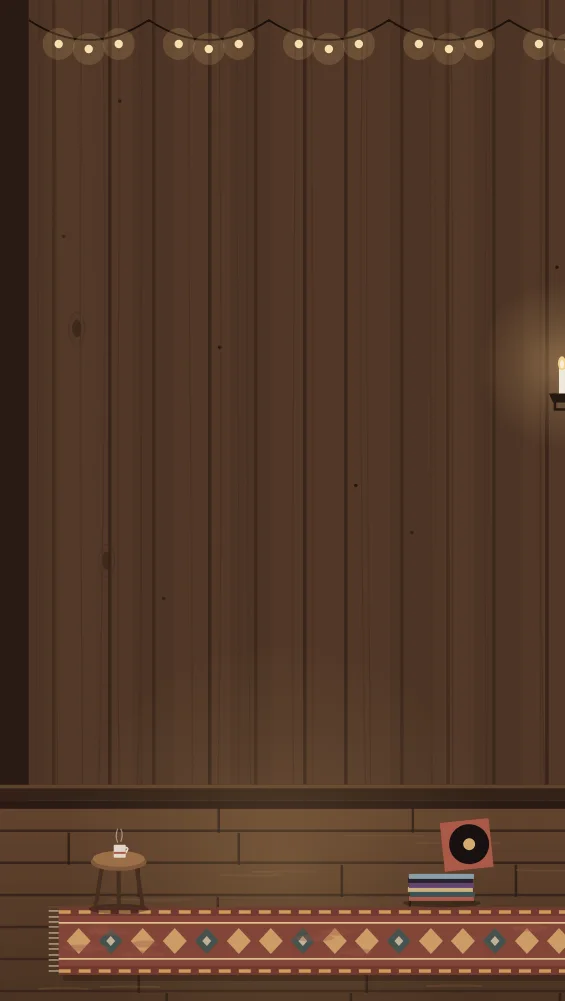
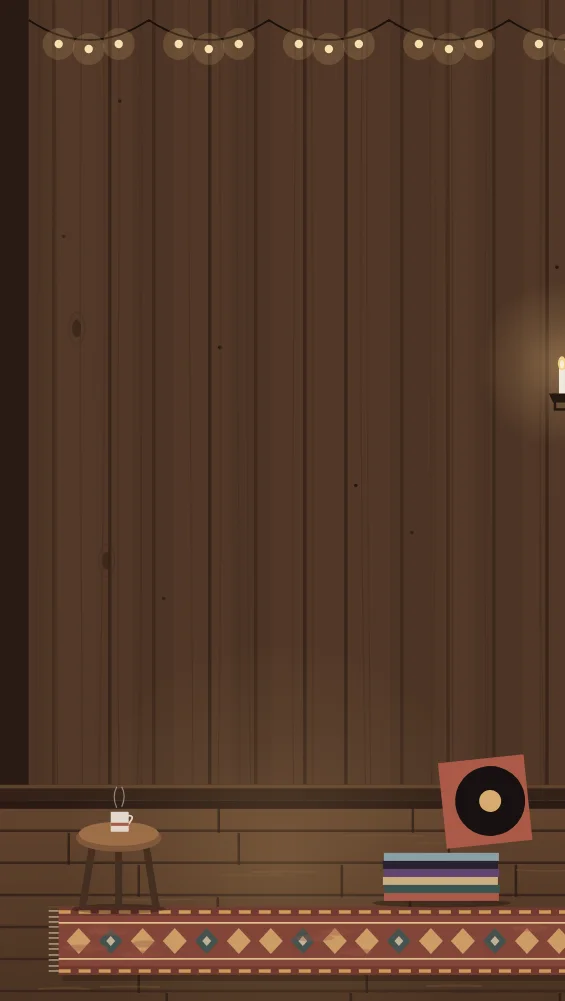
Size the cabin stool, mug and records to the furniture; seat the snowboard deeper
Claude-Session: https://claude.ai/code/session_01EHtmNVvLo6L45VFzzqfGpi

Changed region(s): [[0.6619, 0.7433, 0.9628, 0.9291], [0.1204, 0.8052, 0.3009, 0.9291]]

diff --git a/assets/js/nature.js b/assets/js/nature.js
@@ -2119,8 +2119,8 @@ export function sceneAttic(W, stops, { birdGap = -1 } = {}) {
     // 手前の鉢植えがすき間の真ん中に来るので、床の小物は左右に寄せる
     const off = Math.max(12, W * .11), FK = W < 80 ? 1.25 : 2.1; // 家具の大きさ（絵と比べて部屋が大きすぎて見えないように）
     // 1 つ目のすき間は左半分が小屋の外（雪の中）なので、ギターは置かない。スツールとマグは小屋の中にあるときだけ
-    if (k === 1) { if (gx + off > wallX + 3) { mid += stoolMug(gx + off, 90.5, 2.2 * FK); mug = [gx + off, 90.5 - 2.2 * FK * 1.75 - 2.2 * FK * .42 * 1.1]; } }
-    else if (k === 2) { mid += vinylStack(gx - off, 90, 2.6 * FK); }
+    if (k === 1) { const sz = 3.4 * FK; if (gx + off > wallX + 3) { mid += stoolMug(gx + off, 90.5, sz); mug = [gx + off, 90.5 - sz * 1.75 - sz * .42 * 1.1]; } } // スツールとマグは、薪ストーブやソファと比べて小さすぎないように（スツールは膝くらいの高さ）
+    else if (k === 2) { mid += vinylStack(gx - off - (W < 80 ? 0 : 9), 90, 4.6 * FK); } // 広い画面では薪ストーブから離す // 床のレコードの山：ジャケットがストーブの半分くらいの高さ
     else { mid += skis(gx - off, 90, 30 * Math.min(FK, 1.6)); }
     // 壁の小物は、作品にかからないときだけ（広い画面）
     if (k === 1) mid += guard(Zk, () => coatRack(gx, 30, 14 * Math.min(FK, 1.4)), { min: 1 });
